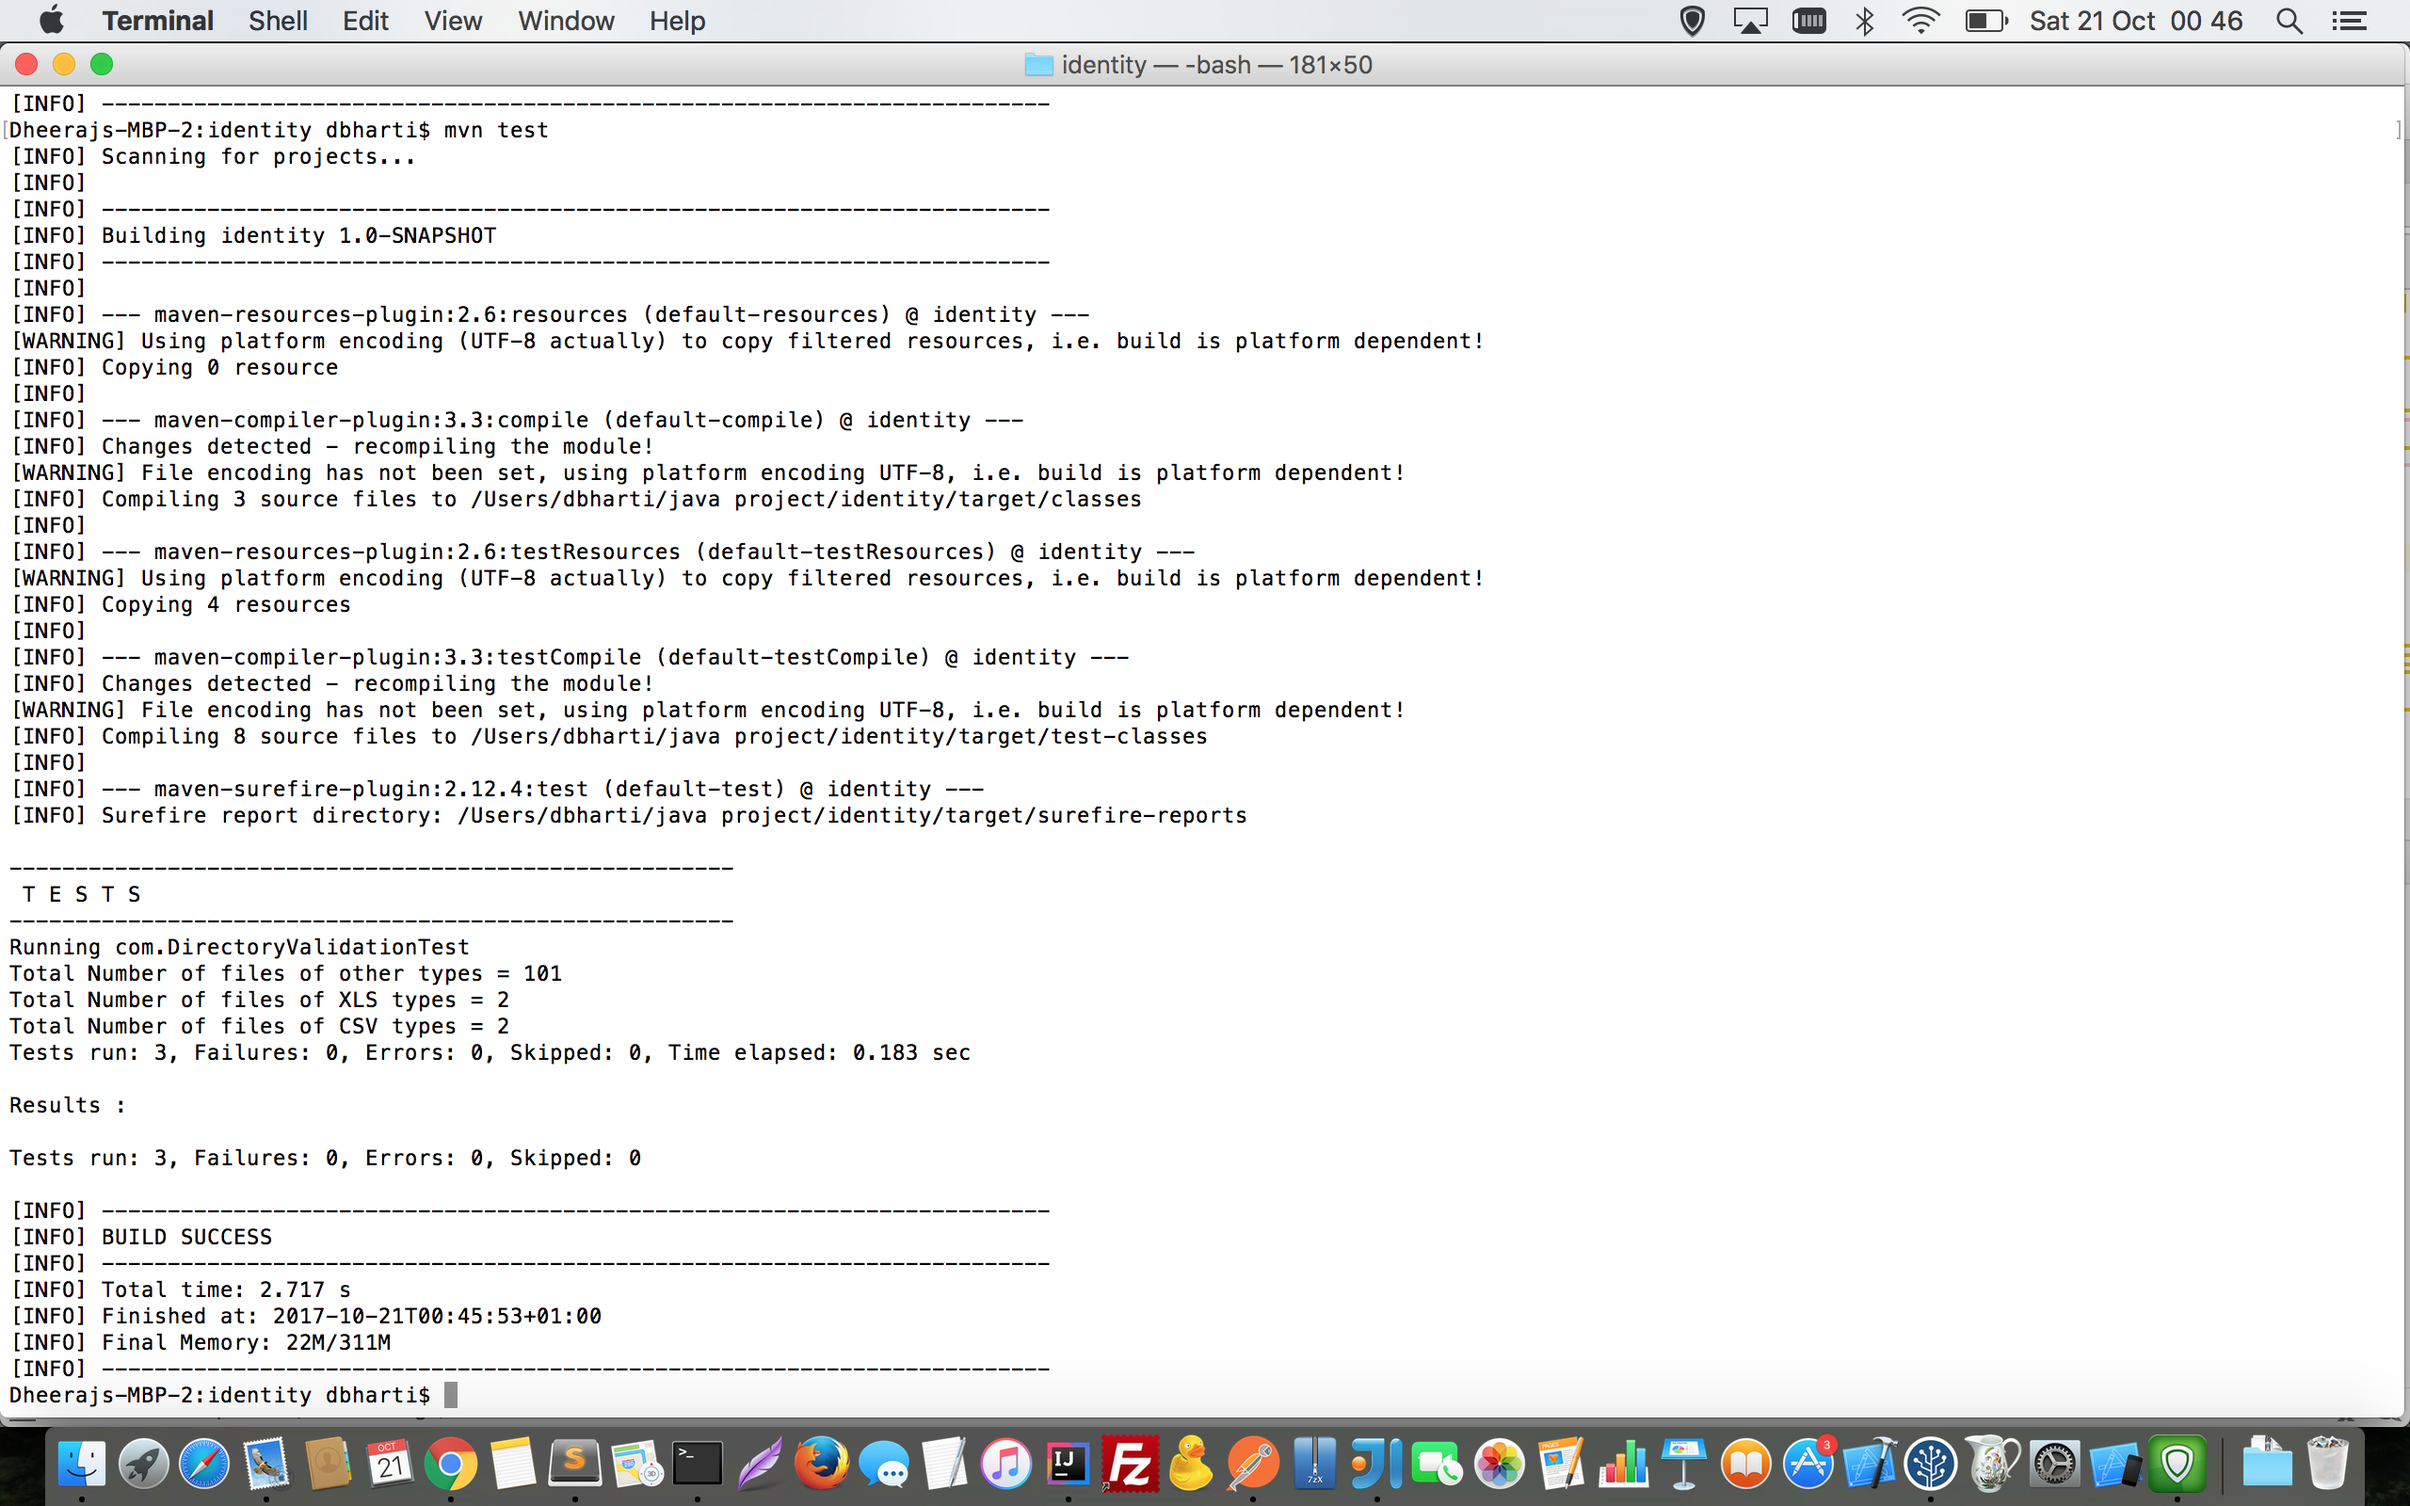
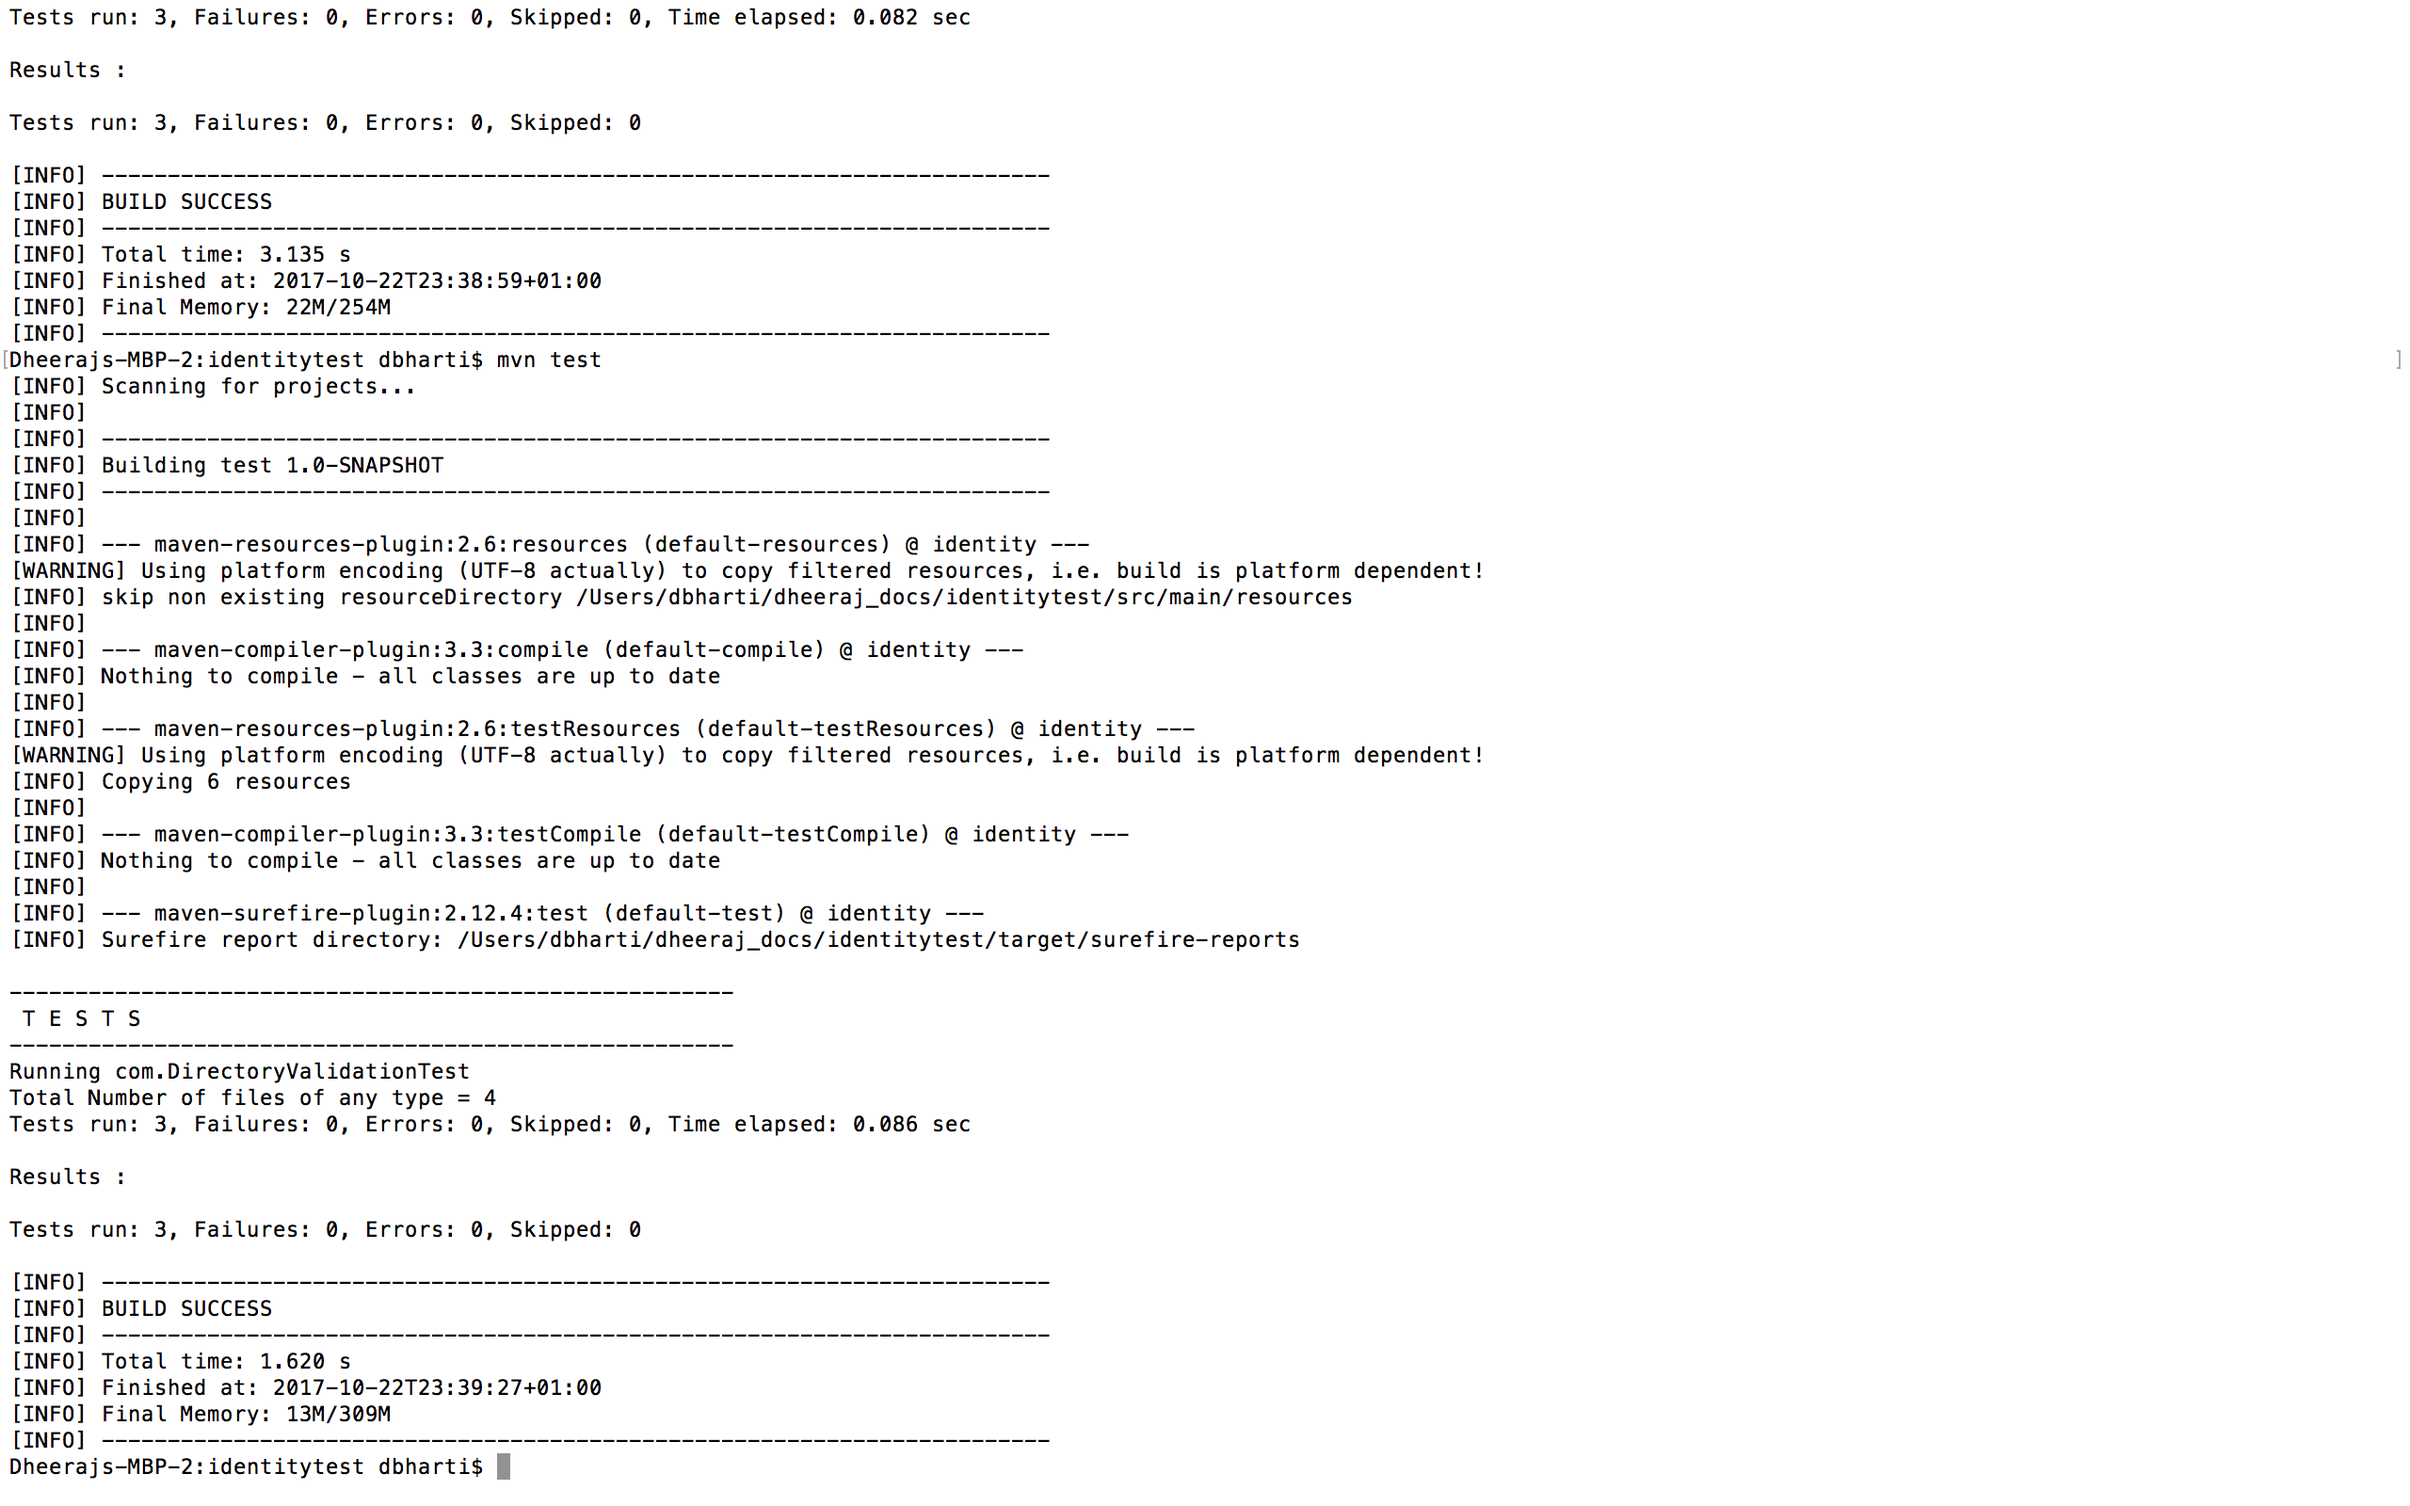
Added 2 extra test files in data folder

Changed region(s): [[0.0, 0.0, 1.0, 1.0], [0.4688, 0.2188, 0.5938, 0.25], [0.5312, 0.3125, 0.5625, 0.3438]]

diff --git a/src/test/java/com/DirectoryValidationTest.java b/src/test/java/com/DirectoryValidationTest.java
@@ -26,7 +26,7 @@ public class DirectoryValidationTest {
     @Test
     public void testExtractFileDetailsForOthers() {
         List<FileInfo> fileInfos = DirectoryUtility.extractFileInfo(dataFolder, FileFormatSupported.ANY);
-        Assert.assertNotEquals(1, fileInfos.size());
+        Assert.assertEquals(4, fileInfos.size());
         System.out.println("Total Number of files of any type = " + fileInfos.size());
     }
 

diff --git a/README.md b/README.md
@@ -7,9 +7,16 @@ Part 1:
 Write a Service layer bean to do the following:
 
 
-I've used current project directory i.e. identity for scanning, it'll check all the subfolders e.g. src, java, test and target etc.
-Service Layer provides the code to retrieve supported mime type files - it's been configured for excel and csv as required.
+I've used data directory (identitytest/src/test/resources/data) as a source folder of files, it'll check all the subfolders if there is any.
+Directory Utility provides the code to retrieve supported mime type files - it's been configured for excel and csv as required.
 Junit tests demos to verify the xlsx and csv files.
+
+unit tests
+
+1. Verify that there is only 1 csv files in data source folder
+2. Verify that there is only 1 excel files in data source folder
+3. Verify that there are 4 files exist in data source folder
+
 Please find the attached screenshot of test execution from command line for reference.
 
 mvn test
@@ -18,8 +25,8 @@ mvn test
 Part 2:
 
 1. I've written a selenium cucumber test to automate the DVLA website to verify the vehicle's details
-2. It uses the service layer created in step 1 to get the CSV file.
-3. Test picks up the registration number from the csv file and verifies the Make and Colour of the vechile
+2. It uses the DirectoryUtility class which was created in step 1 to retrieve the CSV file.
+3. Test picks up the registration number from the csv file and verifies the Make and Colour of the vechile on DVLS website.
 4. By default it's running on Firefox browser as i've provided browser:"firefox" in the config.properties file.
 If you need to run on chrome on mac just change the property to chrome. Window's machine would require a 32 bit chromedriver.exe in testDrivers folder
 and path needs to be updated with chromedriver.exe
